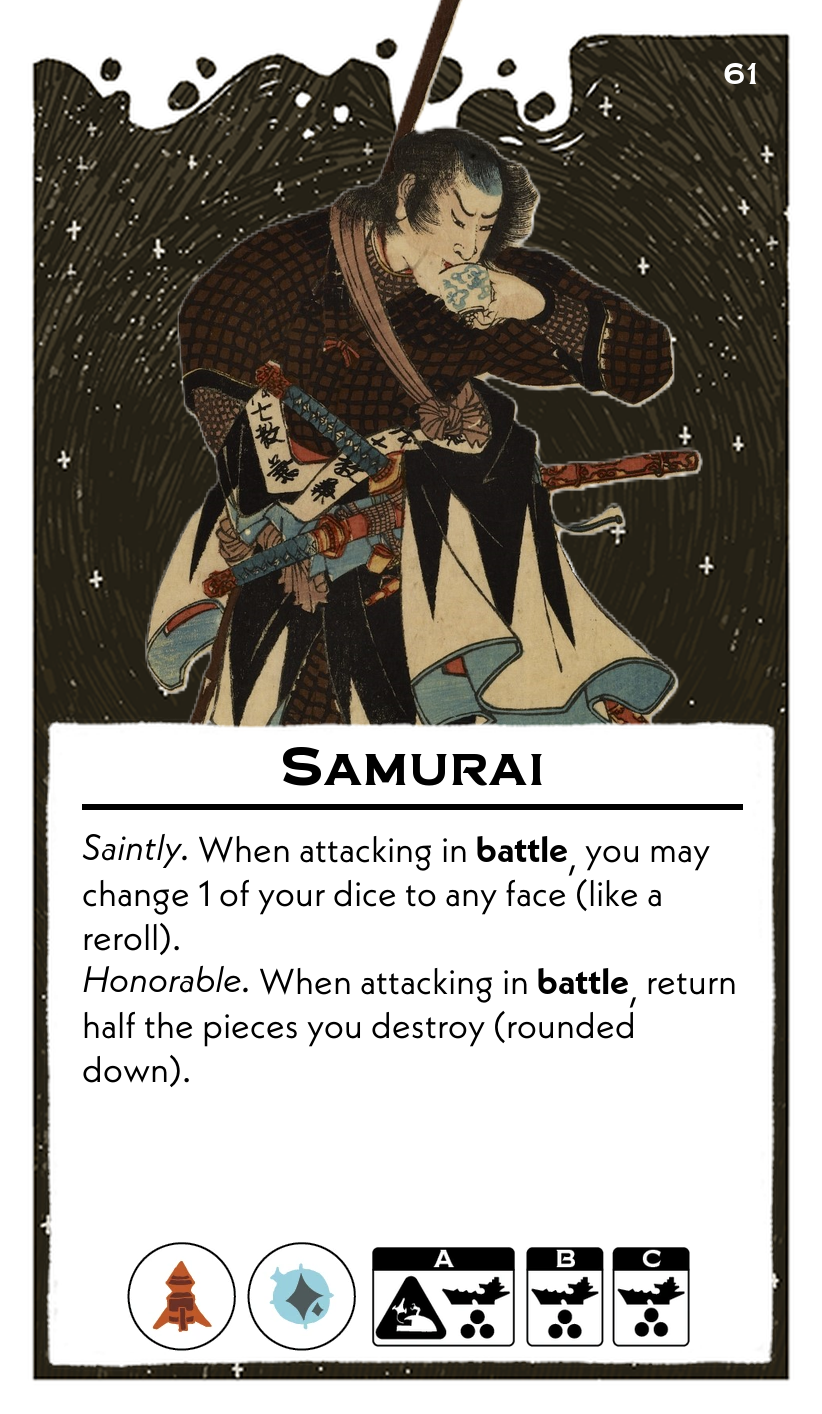
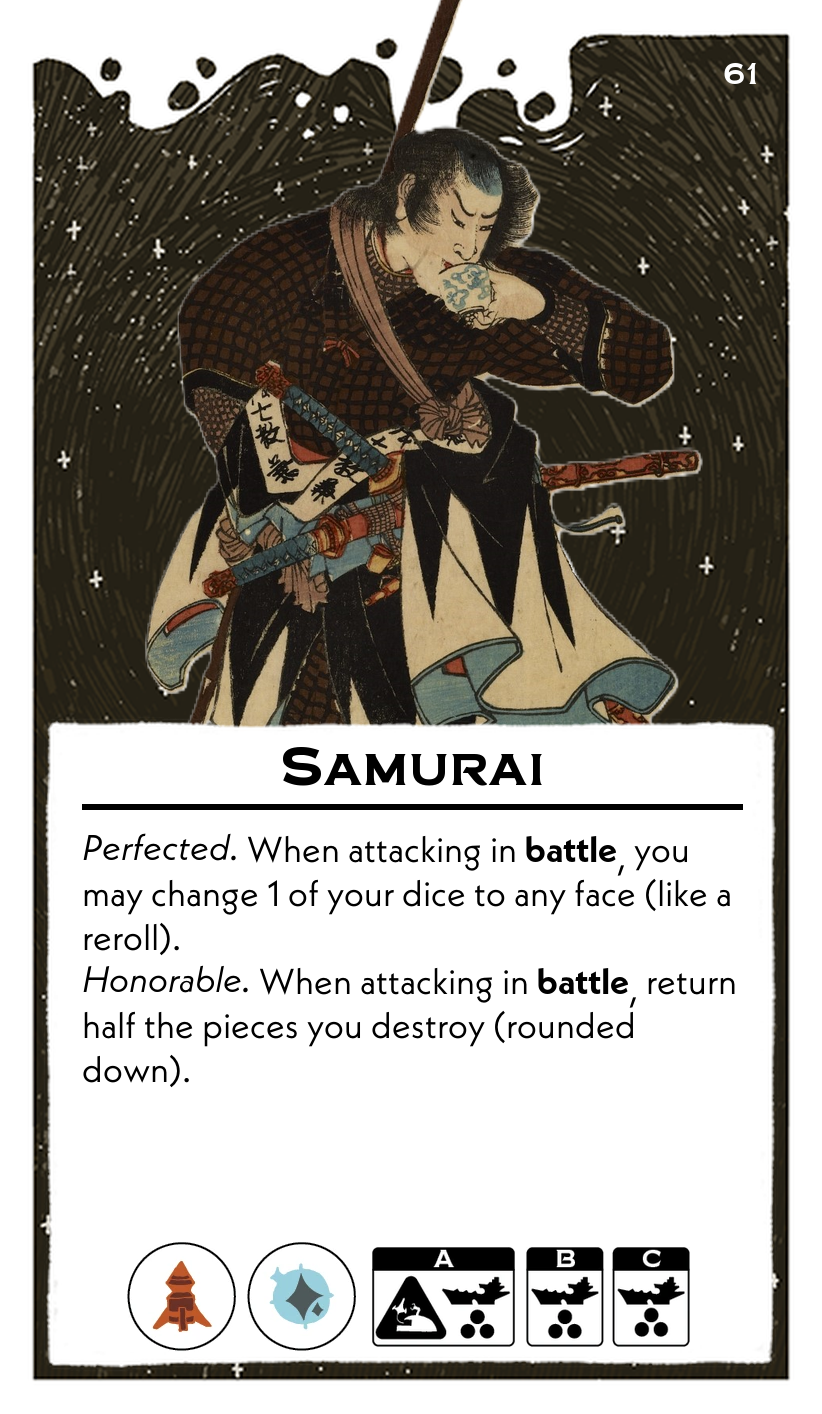
samurai

Changed region(s): [[0.0912, 0.5912, 0.882, 0.6535]]

diff --git a/scripts/leadersFormatted.py b/scripts/leadersFormatted.py
@@ -928,7 +928,7 @@ leaders = [
     {
         "name": "Samurai",
         "abilities": (
-            "*Saintly.* When attacking in **battle**, you may change 1 of your dice to any face (like a reroll).\n"
+            "*Perfected.* When attacking in **battle**, you may change 1 of your dice to any face (like a reroll).\n"
             "*Honorable.* When attacking in **battle**, return half the pieces you destroy (rounded down)."
         ),
         "resources": ["Weapon", "Relic"],
